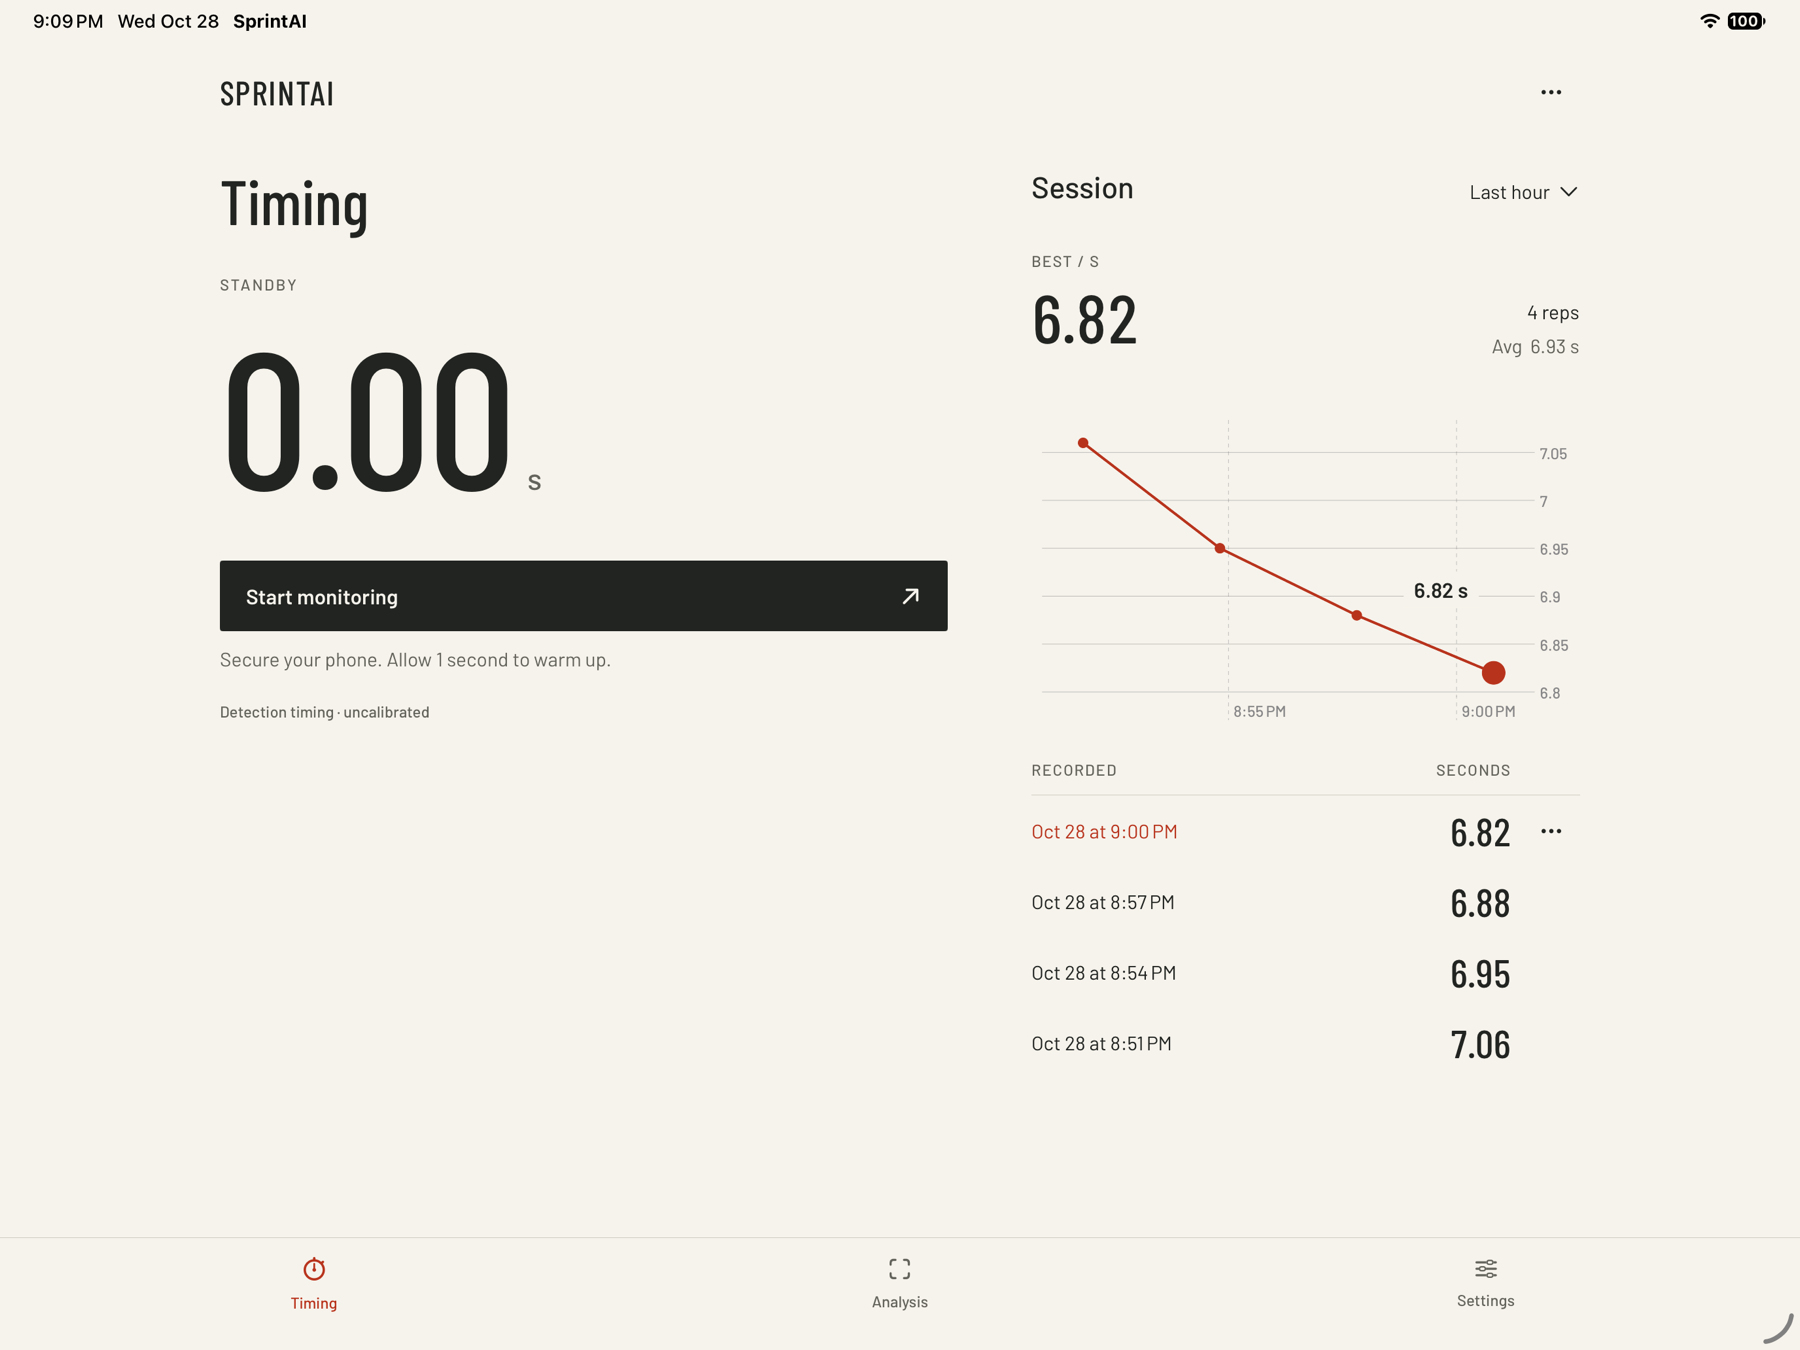
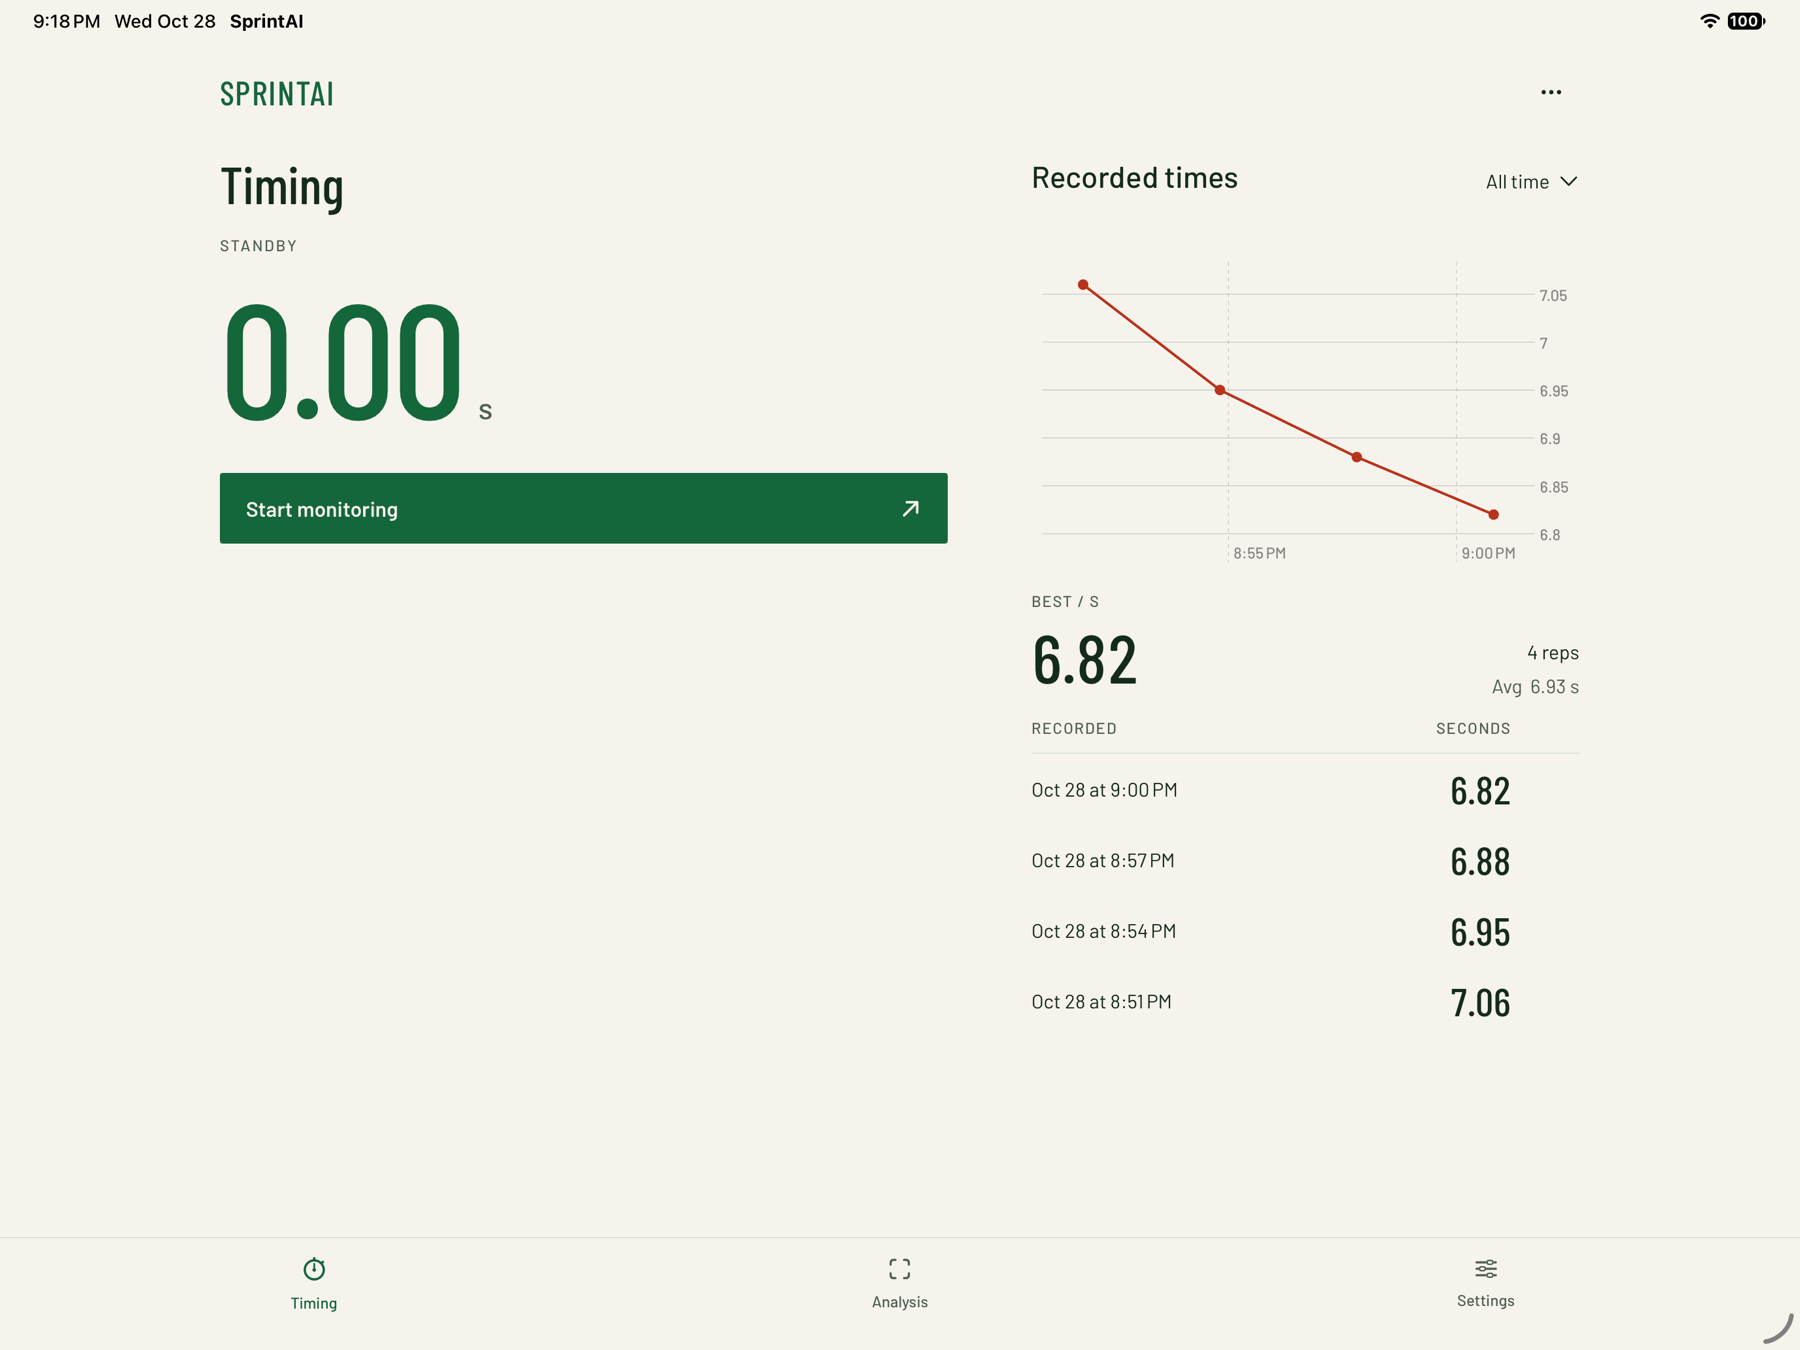
Refresh screenshots for green branding and visible timing charts
Refs #8. Update the subtitle-free screens and chart-first timing layout. Record the requested light verification. Tablet history is synthetic demonstration data.

diff --git a/README.md b/README.md
@@ -21,7 +21,7 @@ SprintAI brings two training tools into one app: detect sprinting from a phone's
 |---|---|---|
 | <img src="Docs/Screenshots/timing.png" width="240" alt="Sprint timing screen"> | <img src="Docs/Screenshots/analysis.png" width="240" alt="Video analysis screen"> | <img src="Docs/Screenshots/settings.png" width="240" alt="Feedback settings screen"> |
 
-Screenshots show the Barlow typography and open paper layout on the iPhone 18 Pro / iOS 27 simulator. The tablet preview uses four synthetic demonstration records; no athlete footage or real training records are included.
+Screenshots show the green color scheme, Barlow typography, and open layout on the iPhone 18 Pro / iOS 27 simulator. The tablet preview uses four synthetic demonstration records; no athlete footage or real training records are included.
 
 <img src="Docs/Screenshots/timing-ipad.png" width="800" alt="Asymmetric tablet timing workspace with synthetic demonstration results">
 

diff --git a/Docs/VALIDATION.md b/Docs/VALIDATION.md
@@ -39,3 +39,7 @@ These checks do not establish real-world sprint timing accuracy or biomechanical
 - The oldest supported iPhone, iPad multitasking/orientation, larger text sizes, and VoiceOver.
 
 No hosted feedback service is deployed, and no new API credentials are provisioned. GitHub Actions configuration is included; its hosted results should be checked after publication.
+
+## Green-theme follow-up
+
+The green accent, subtitle removal, and always-visible recorded-times chart were checked with one simulator build and a brief phone/tablet review. The chart now appears before summaries, including its empty state, and defaults to all saved records. Existing per-record colors remain intact; the tablet screenshot uses the existing synthetic demonstration history. Full test suites were not rerun for this requested UI refinement.
